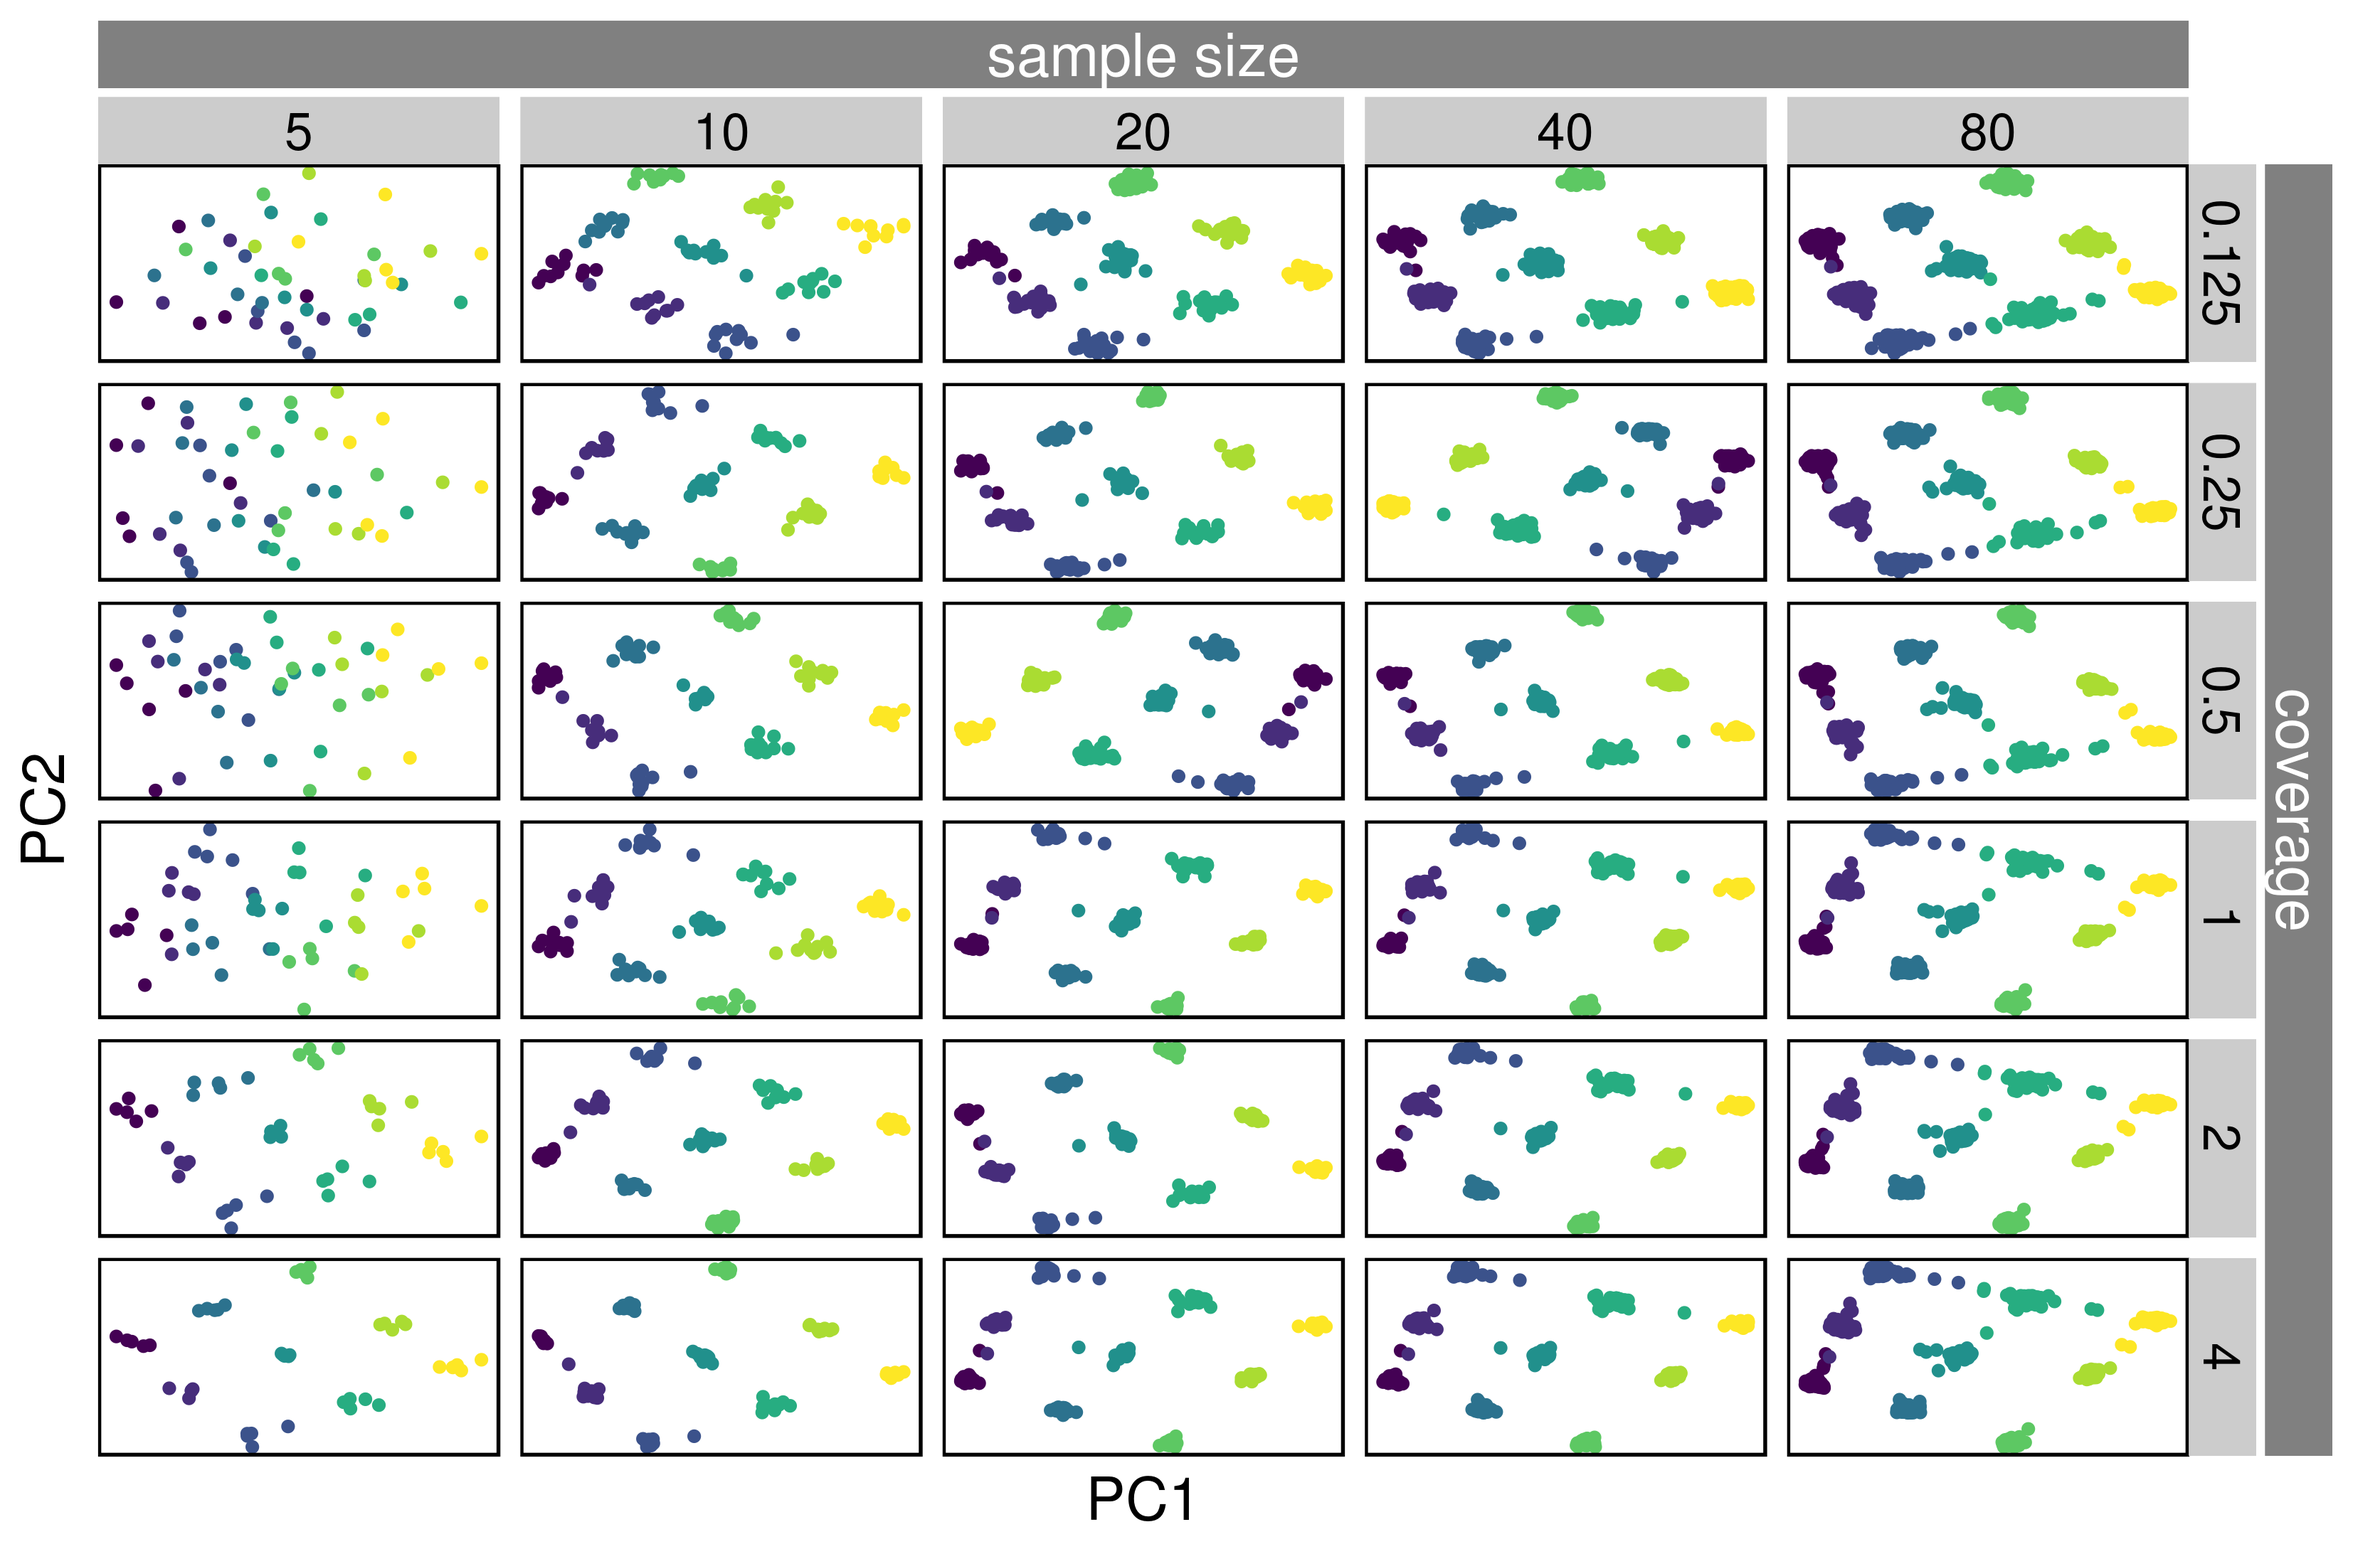
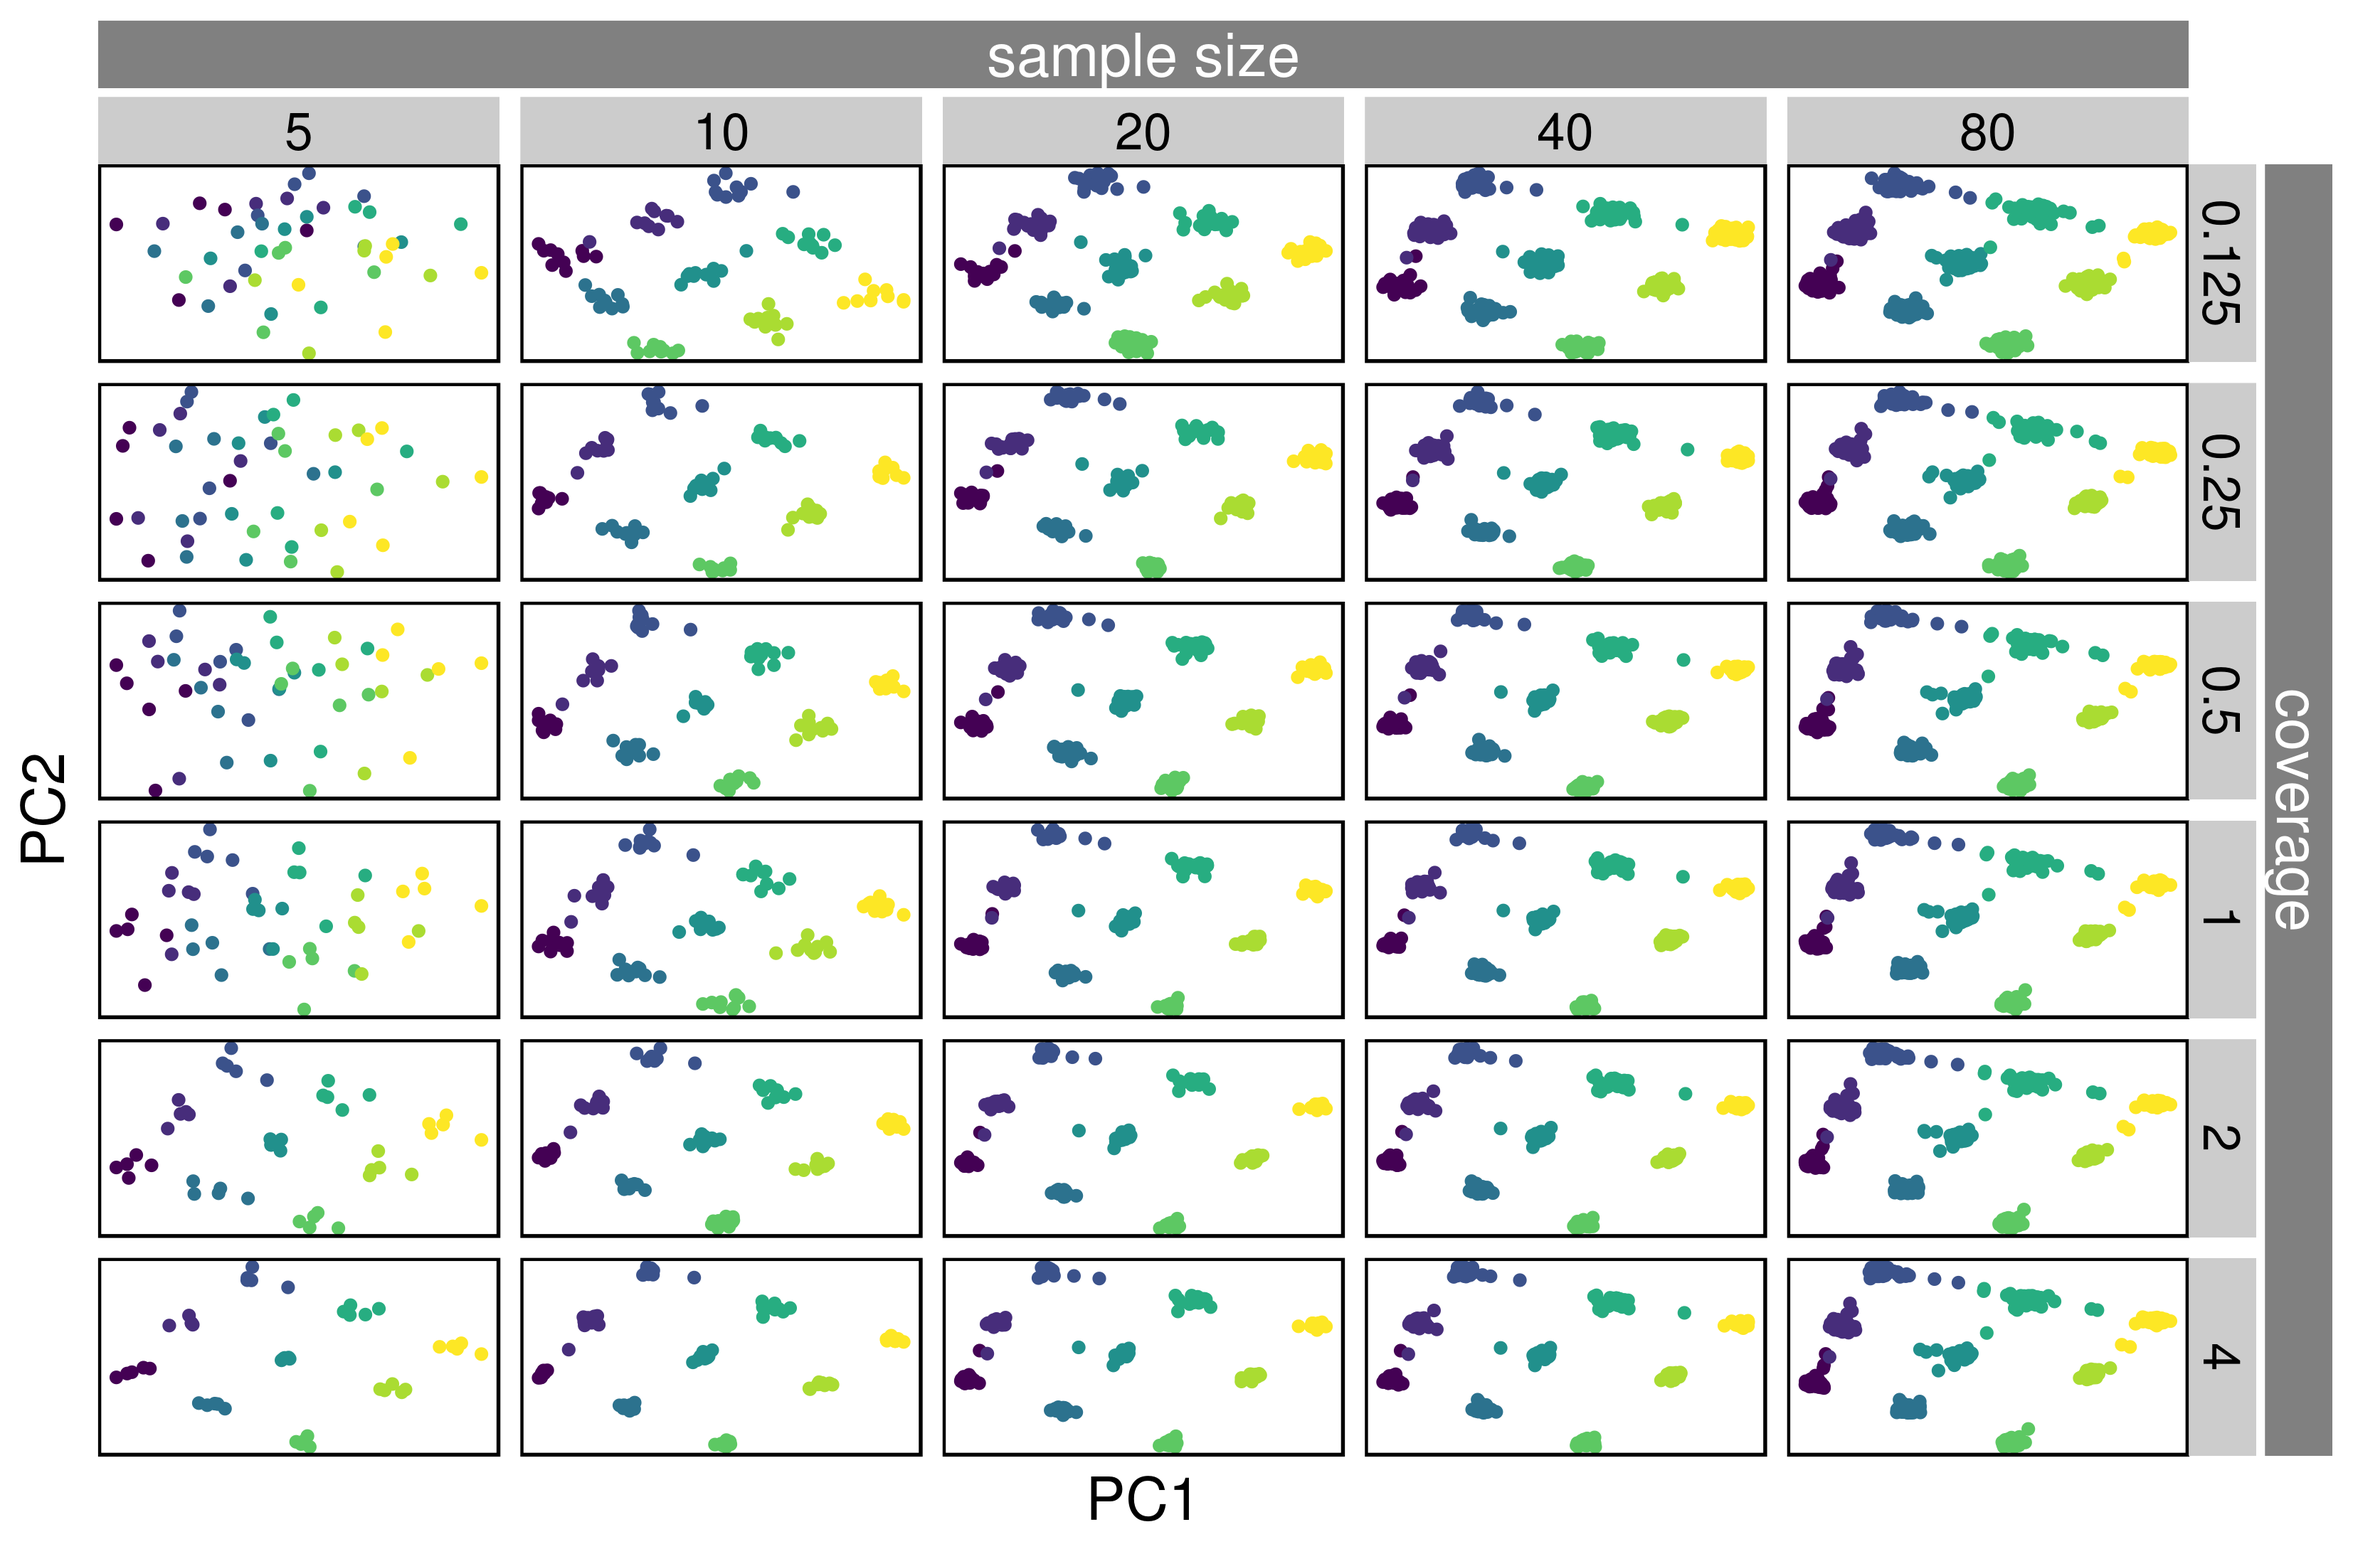
flipped some pc axes to make the result be in the same direction

diff --git a/markdowns/figures.md b/markdowns/figures.md
@@ -348,9 +348,18 @@ for (coverage in c(0.125,0.25,0.5,1,2,4)){
     i=i+1
   }
 }
-
+## Make sure that the PCA plots follow the same direction
+pca_table_final_summary <- group_by(pca_table_final, population, coverage, sample_size) %>%
+  summarise(pc2_mean = mean(PC2)) %>%
+  ungroup() %>%
+  pivot_wider(names_from = population, values_from = pc2_mean) %>%
+  transmute(coverage = coverage, sample_size = sample_size, invert = p3 < p7)
+## Flip PC2 axis when needed (PC1 axis happens to be in the same direction for all plots)
+pca_table_final_flipped <- left_join(pca_table_final, pca_table_final_summary, 
+                                     by=c("coverage", "sample_size")) %>%
+  mutate(PC2 = ifelse(invert==TRUE, -PC2, PC2))
 ## Plot PCA
-pca_plot <- filter(pca_table_final, coverage < 0.5) %>% 
+pca_plot <- filter(pca_table_final_flipped, coverage < 0.5) %>% 
   ggplot(aes(x=PC1, y=PC2, color=population)) +
   geom_point() +
   facet_grid(coverage~sample_size, scales="free") +
@@ -446,9 +455,19 @@ for (coverage in c(0.125,0.25,0.5,1,2,4)){
     i=i+1
   }
 }
-
+## Make sure that the PCA plots follow the same direction
+pca_table_final_summary <- group_by(pca_table_final, population, coverage, sample_size) %>%
+  summarise(pc1_mean = mean(PC1), pc2_mean = mean(PC2)) %>%
+  ungroup() %>%
+  pivot_wider(names_from = population, values_from = c(pc1_mean, pc2_mean)) %>%
+  transmute(coverage = coverage, sample_size = sample_size, invert_pc1 = pc1_mean_p1 > pc1_mean_p9, invert_pc2 = pc2_mean_p3 < pc2_mean_p7)
+## Flip PC1 and PC2 axes when needed 
+pca_table_final_flipped <- left_join(pca_table_final, pca_table_final_summary, 
+                                     by=c("coverage", "sample_size")) %>%
+  mutate(PC1 = ifelse(invert_pc1==TRUE, -PC1, PC1),
+         PC2 = ifelse(invert_pc2==TRUE, -PC2, PC2))
 ## Plot PCA
-pca_plot <- pca_table_final %>% 
+pca_plot <- pca_table_final_flipped %>% 
   ggplot(aes(x=PC1, y=PC2, color=population)) +
   geom_point() +
   facet_grid(coverage~sample_size, scales="free") +
